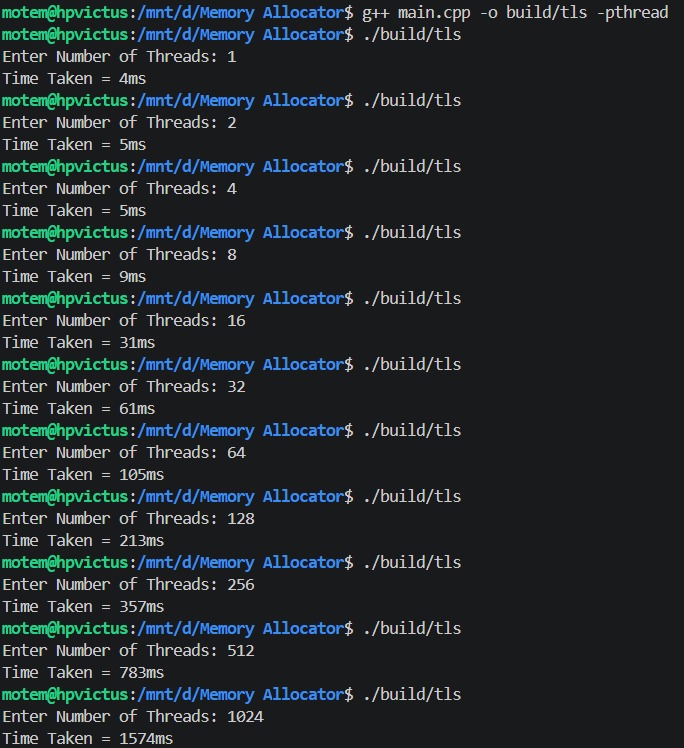
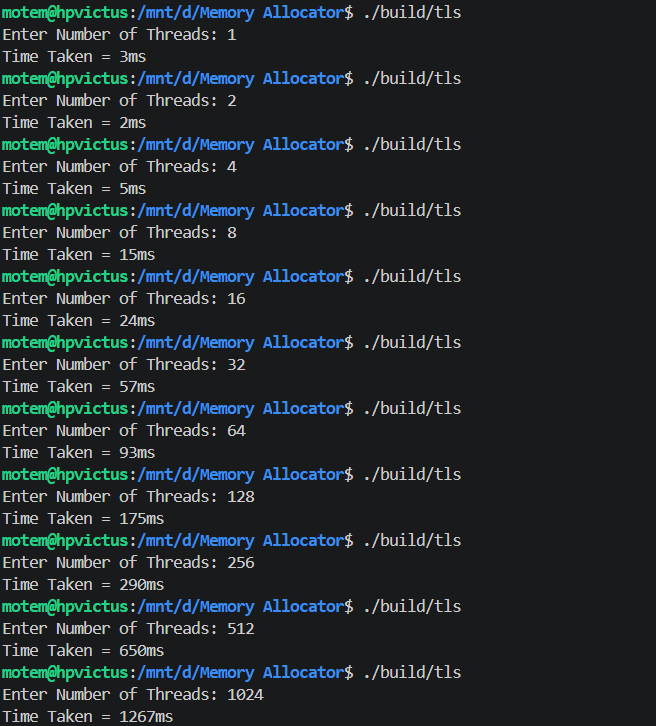
tls expts and comparision plot

Changed region(s): [[0.0, 0.0, 0.8537, 1.0], [0.8841, 0.0, 0.9756, 0.0303]]

diff --git a/grab.hpp b/grab.hpp
@@ -3,7 +3,7 @@
 
 #include <bits/stdc++.h>
 #include <sys/mman.h>
-#include <mutex>
+
 using namespace std;
 
 /**
@@ -38,8 +38,6 @@ class grab {
         
         Node* list[32] = {}; //init of the free list
 
-        mutex mtx;
-
     public:
         grab(size_t size) : total_size(size), offset(0) 
         { 
@@ -64,8 +62,6 @@ class grab {
             since every payload is attached with a header of of size "sizeof(size_t)" (8 bytes).
             */
             
-            lock_guard<mutex> lock(mtx);
-
             size = std::max((size_t)8, size); // Clamp to 8 minimum
 
             unsigned idx = (size-1)/8;
@@ -92,8 +88,6 @@ class grab {
         }
 
         void deallocate(void* ptr){
-
-            lock_guard<mutex> lock(mtx);
 
             size_t* size_start = (size_t*)ptr - 1;
             Node* temp = (Node*)ptr;

diff --git a/readme.md b/readme.md
@@ -1,6 +1,6 @@
 # Grab Allocator Experiments
 
-This repository contains a high-performance custom memory allocator prototype and benchmark experiments to measure and resolve multi-threaded lock contention.
+This repository contains a high-performance grab (custom memory allocator) and benchmark experiments to measure and resolve multi-threaded lock contention.
 
 ## What the experiment does
 
@@ -12,20 +12,38 @@ This repository contains a high-performance custom memory allocator prototype an
 
 ## Experiments & Benchmarks
 
-### 1. Global Lock Contention (Baseline)
-The initial design used a standard `std::mutex` to ensure thread safety across a shared memory pool. The benchmark below demonstrates severe lock contention as threads scale, forcing the CPU cores to sit idle while waiting for lock acquisition.
+The performance graph below highlights the dramatic difference between a globally locked allocator and a lock-free, thread-local architecture.
 
-![Lock Contention Experiment](expt.png)
+![Performance Comparison Plot](plot.webp)
+
+**Plot Observations:** 
+As visualized in the graph above, the global mutex approach (red line) scales poorly. As the number of threads doubles, the time taken grows exponentially due to the increasing traffic jam of threads fighting for the lock. In contrast, the lock-free TLS approach (green line) scales incredibly efficiently, maintaining low latency and only showing significant time increases due to the sheer volume of raw allocations being processed, rather than waiting in line.
+
+---
+
+### 1. Global Lock Contention (Baseline)
+The initial design used a standard `std::mutex` to ensure thread safety across a shared memory pool. 
+
+**Observations:**
+The benchmark demonstrates severe lock contention. When multiple threads attempt to allocate memory simultaneously, they are forced into a single-file queue. This results in massive CPU idle time (waiting for lock acquisition). At 1024 threads, the execution time spiked to **12,149ms** (over 12 seconds).
+
+![Lock Contention Terminal Output](Expt.png)
 
 ### 2. Thread-Local Storage (Zero-Lock Scalability)
-To eliminate the global lock bottleneck, the allocator was redesigned using C++ `thread_local` storage. This provides every thread with its own isolated memory pool, entirely bypassing the need for mutexes. The benchmark below shows massive performance gains, achieving lock-free concurrency even at 1024 threads with zero lock contention.
+**Reasoning:**
+To eliminate the global lock bottleneck, the implementation was transitioned to use C++ `thread_local` storage. By providing every thread with its own isolated memory pool (`offset`) and segregated free list array, threads no longer share state. Because memory is not shared, data races are physically impossible, entirely bypassing the need for mutexes and the assembly instructions required to lock/unlock them.
 
-![TLS Experiment](TLS_Expt.png)
+**Observations:**
+Removing the locks yielded massive performance gains. The lock-free concurrency model allowed 1024 threads to complete the exact same workload in just **1,267ms** a nearly **10x performance improvement** over the baseline.
+
+![TLS Terminal Output](TLS_Expt.png)
+
+---
 
 ## Allocator Architecture
 
 The allocator implemented in `grab.hpp` features:
-- **Segregated Free Lists:** Achieves strictly $O(1)$ allocation and deallocation times using array-based size classes.
+- **Segregated Free Lists:** Achieves strictly O(1) allocation and deallocation times using array-based size classes.
 - **Memory Mapping:** Reserves memory pools directly from the OS using `mmap`.
 - **Payload-Based Sizing:** Rounds block requests to 8-byte multiples. This intentionally trades minor internal fragmentation for strict memory alignment, simplified math, and ultra-low latency.
 - **Concurrency Model:** Evolved from global mutex locking to lock-free, isolated memory pools per thread via `thread_local`.
@@ -37,8 +55,8 @@ The allocator implemented in `grab.hpp` features:
 
 ## Build and run
 
-Compile with a C++17 compiler and pthread support, then run:
+Compile with a C++ compiler and pthread support, then run:
 
 ```bash
-g++ -O2 -std=c++17 main.cpp -o build/grab_test -pthread
+g++ main.cpp -o build/grab_test -pthread
 ./build/grab_test
